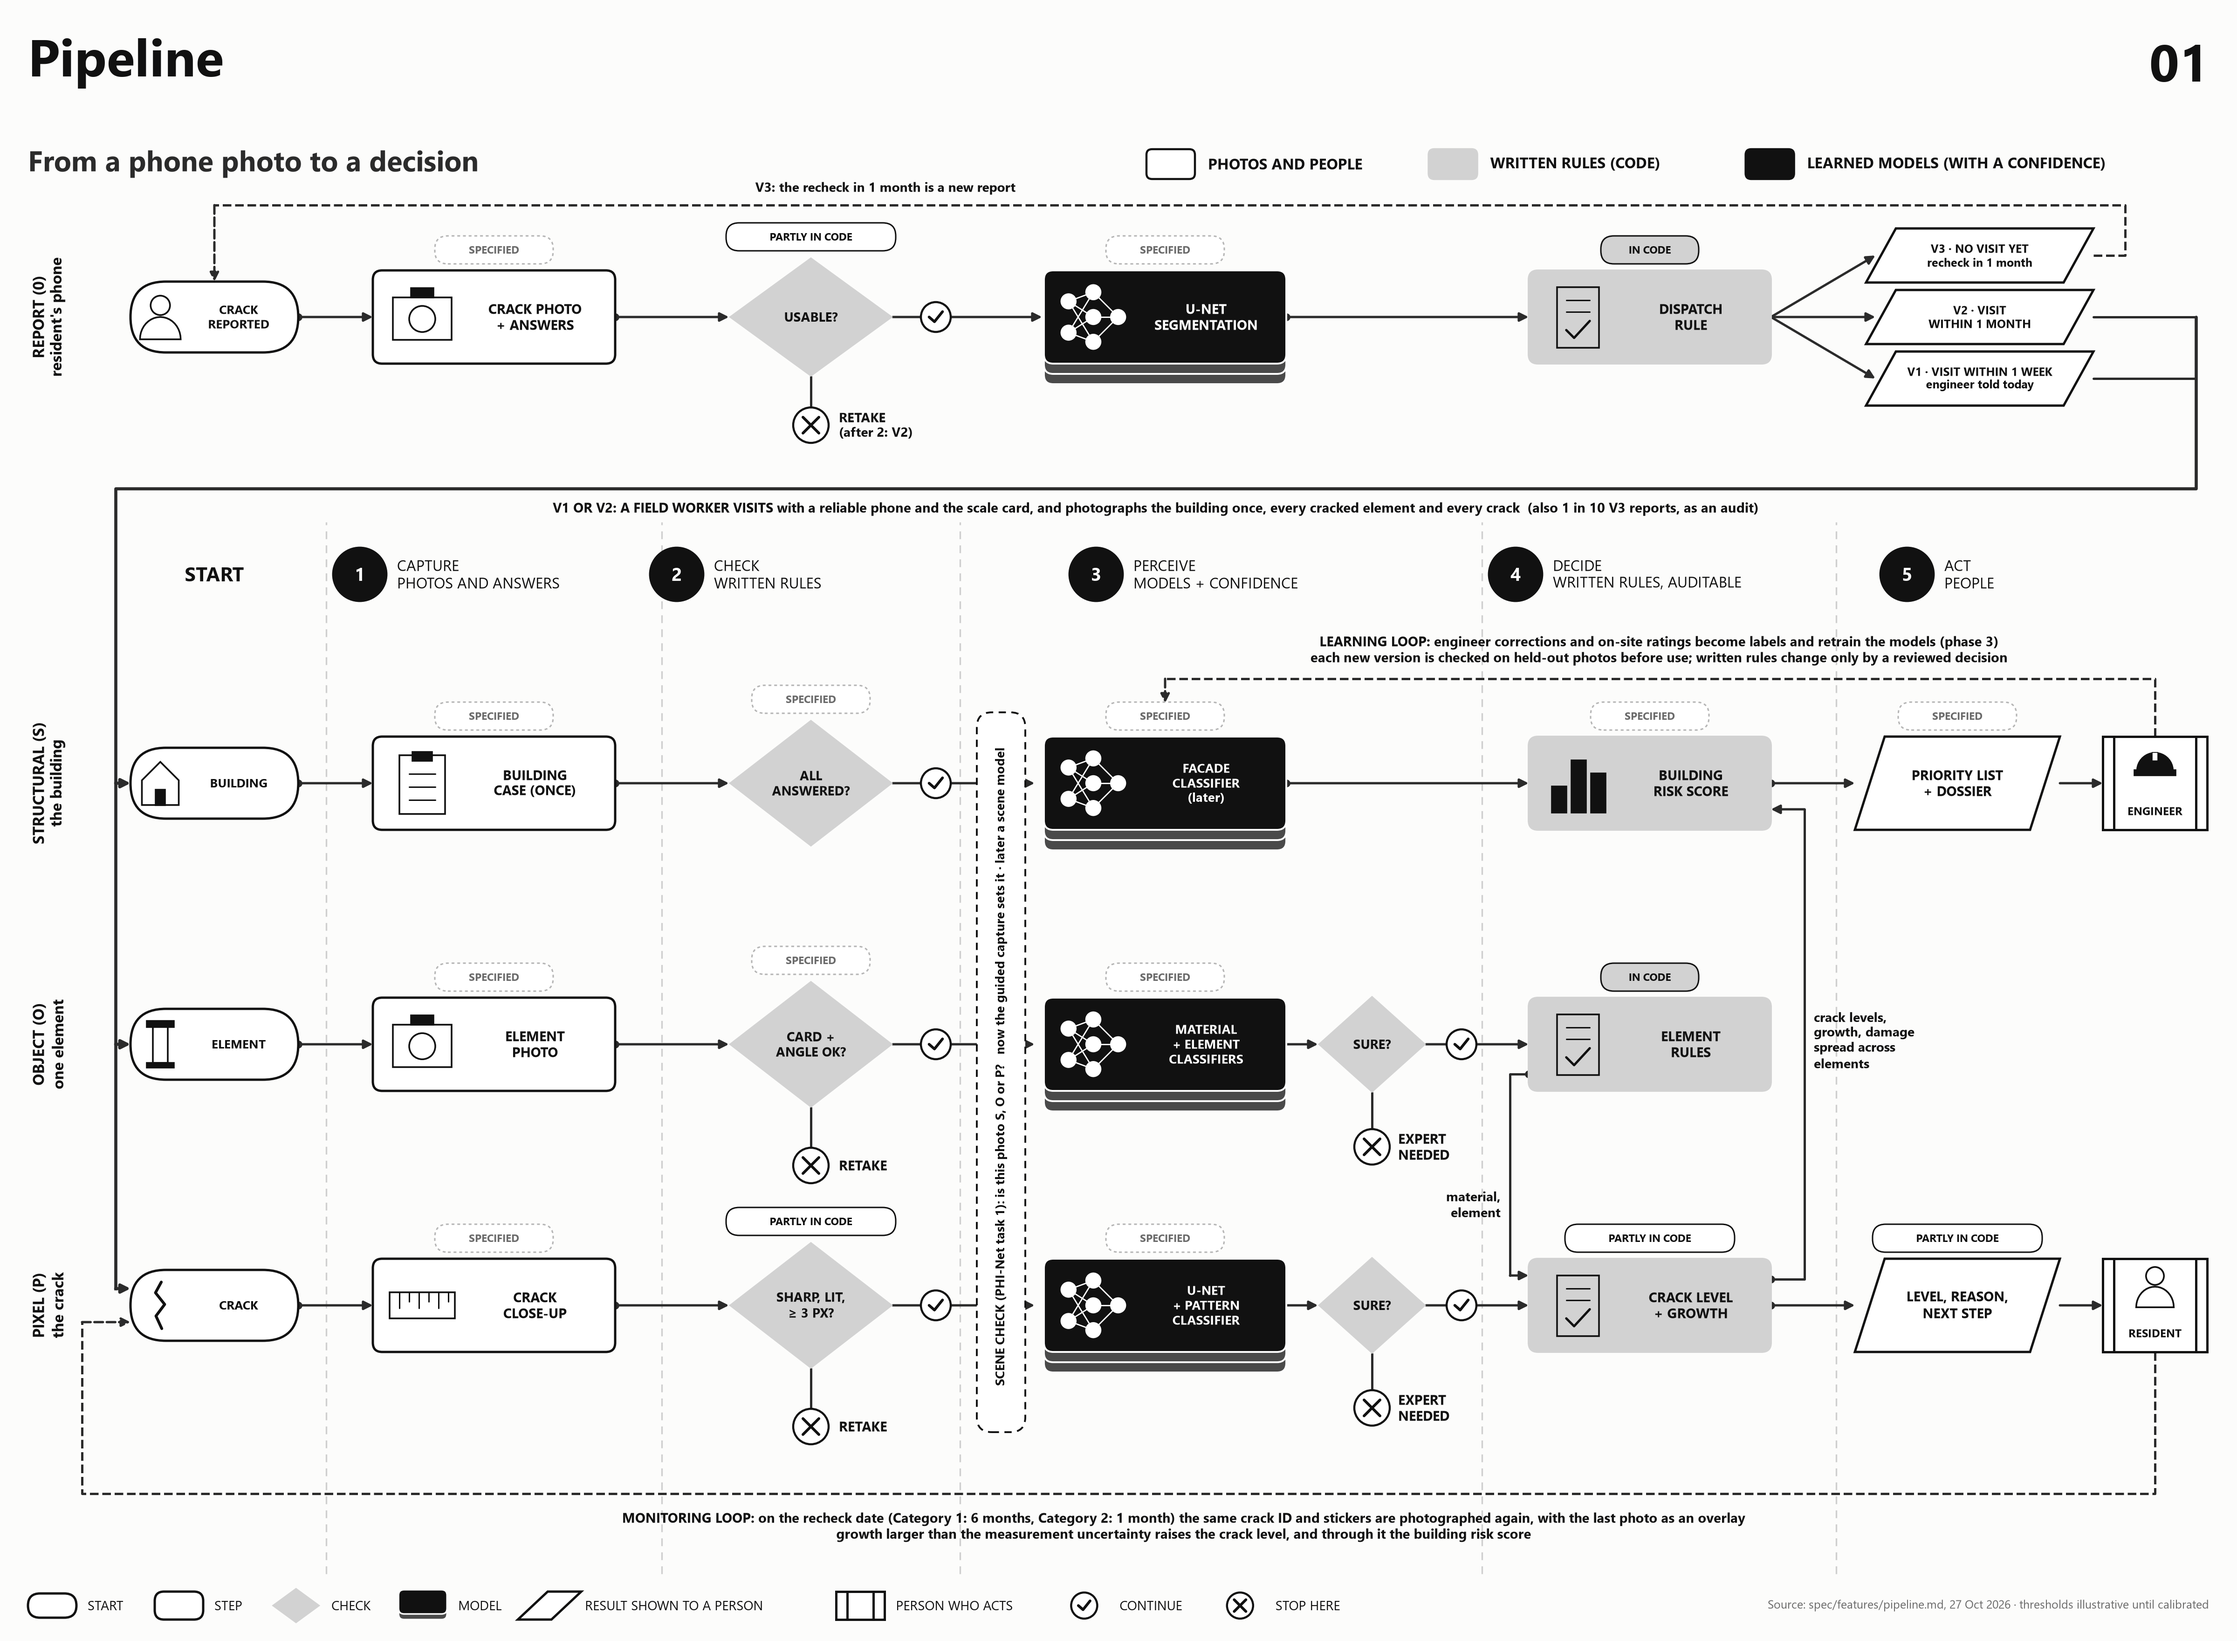
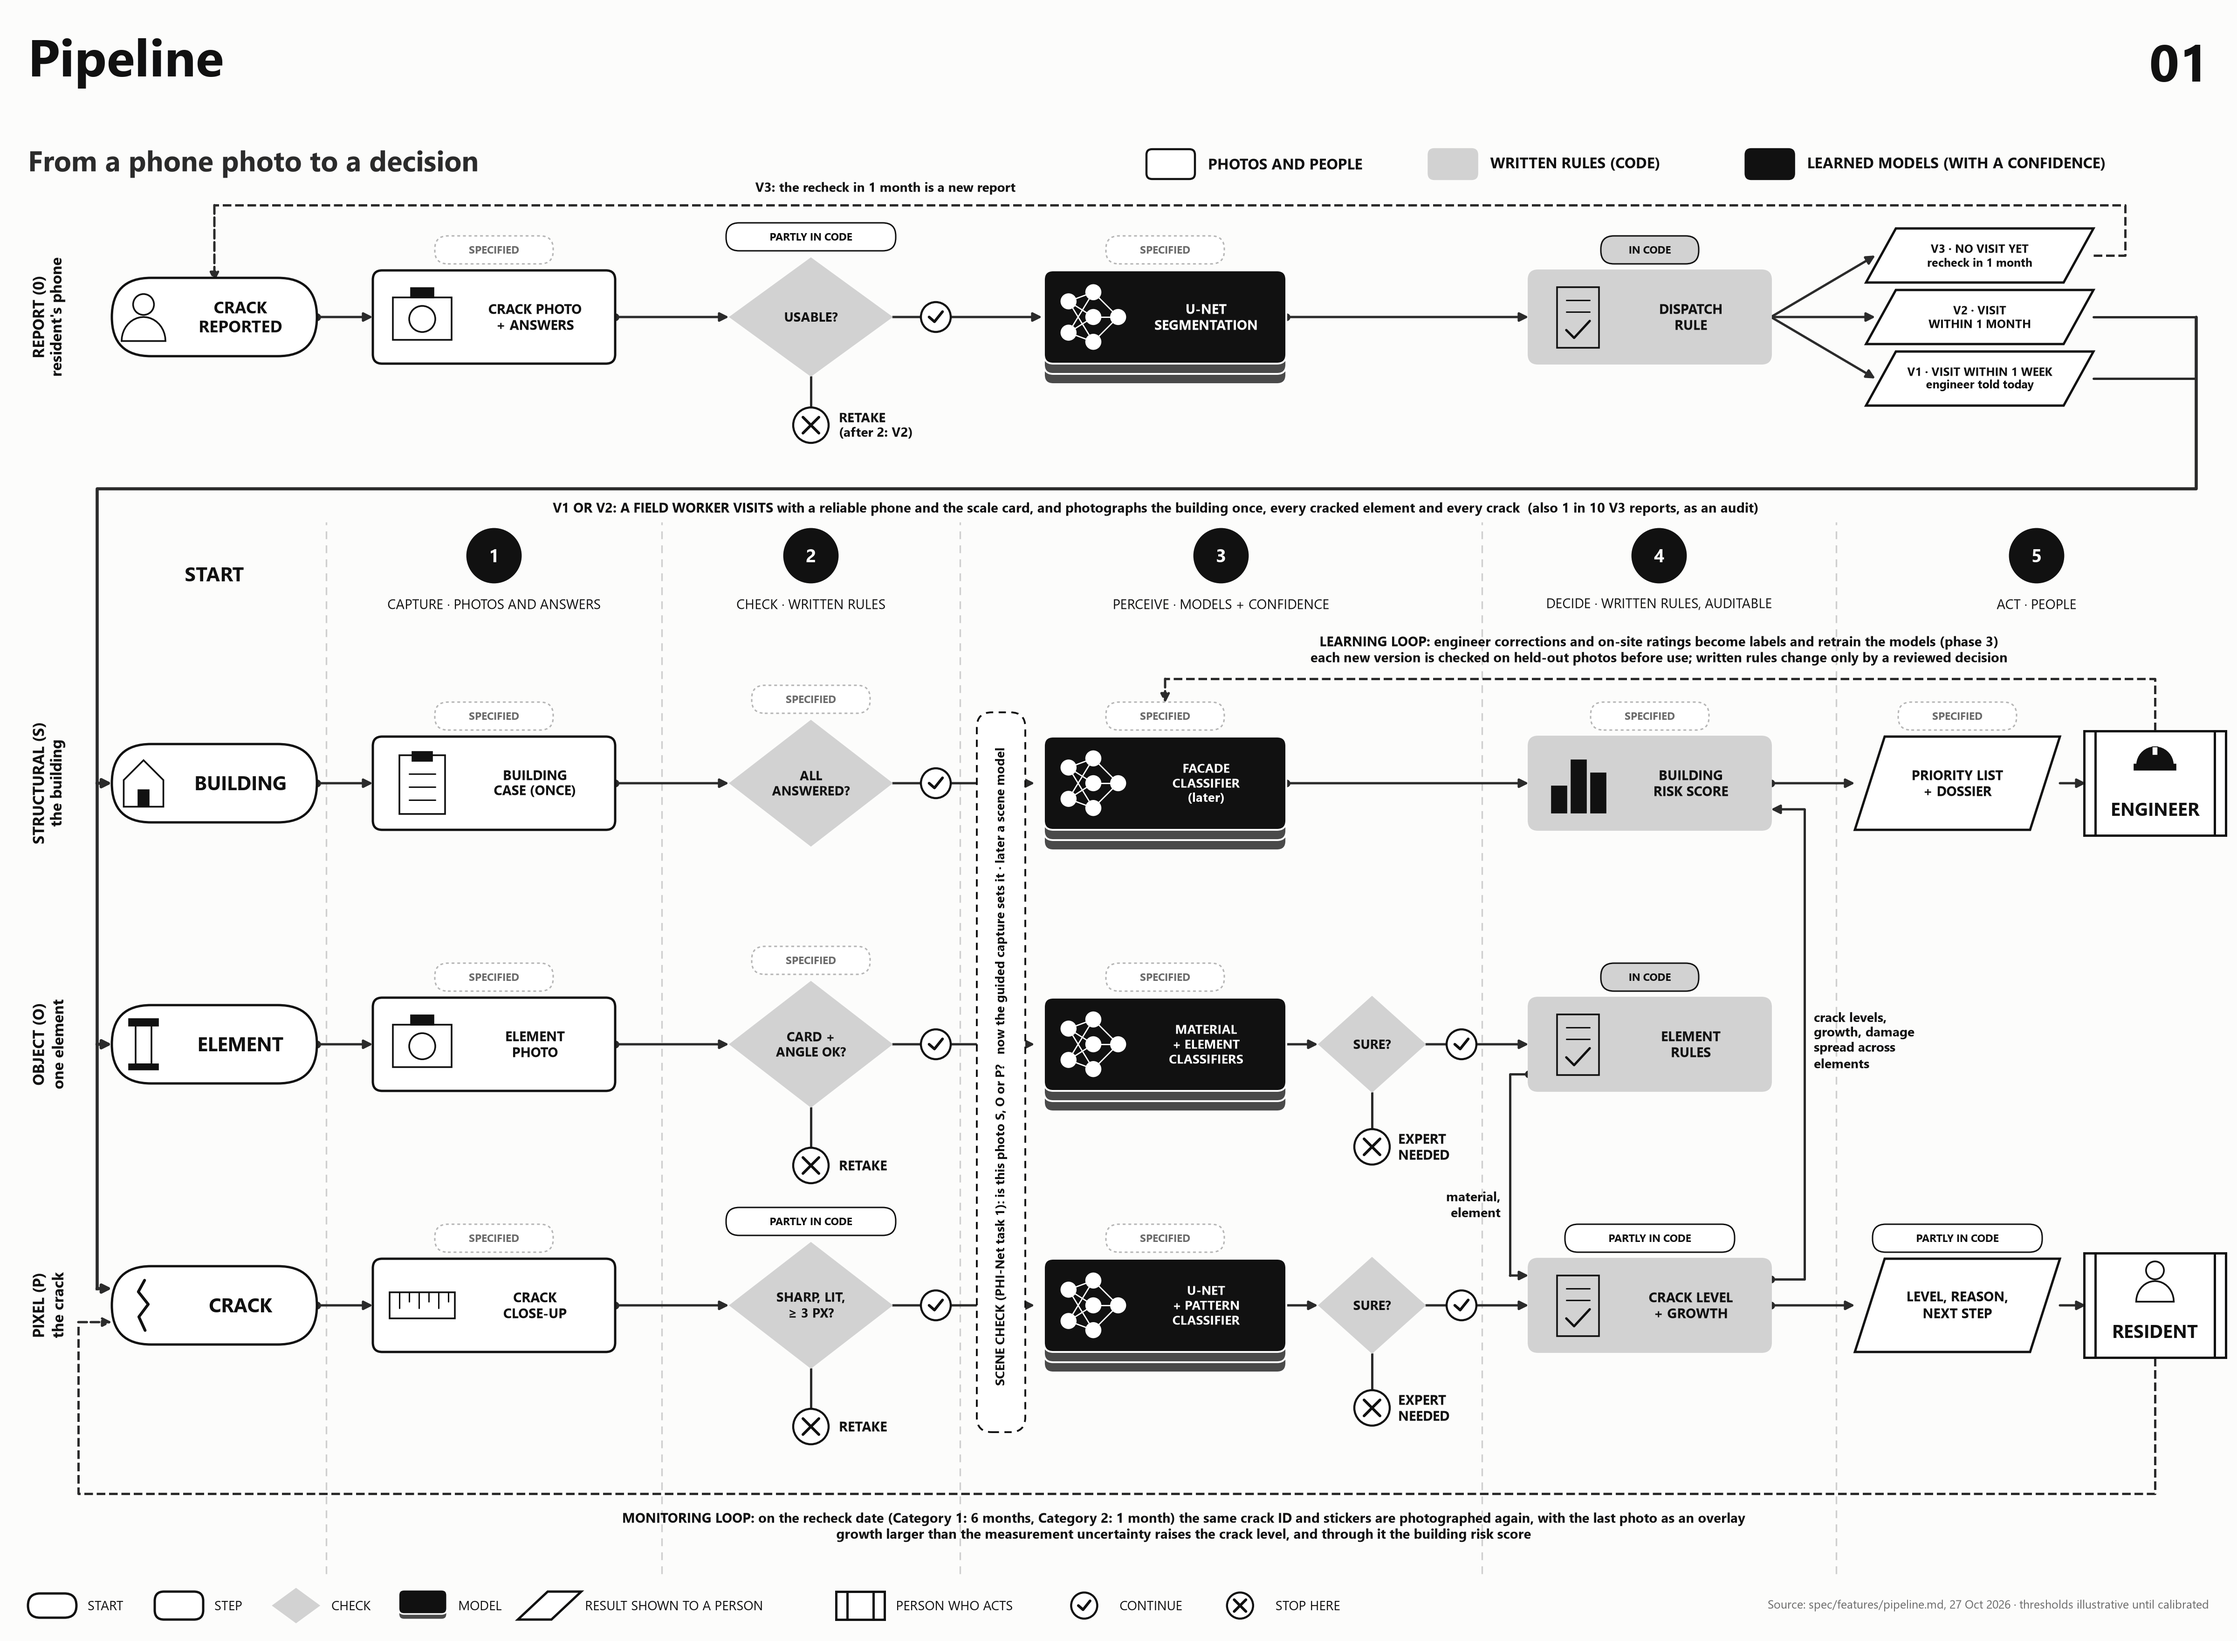
Pipeline flow: much bigger Building, Element, Crack, Engineer, Resident; phase numbers centred between the dotted lines

diff --git a/src/viz/figures.py b/src/viz/figures.py
@@ -1233,14 +1233,14 @@ def pipeline_flow():
         label(cx + (size + 0.9) / 2, cy, wrap(title), colour=ink, weight="bold", size=size_text)
 
     def ipill(cx, cy, title, icon):
-        pill(cx, cy, 9.0, 3.8, "")
-        _handoff_icon(ax, icon, cx - 2.9, cy, s=2.6)
-        label(cx + 1.3, cy, title, size=9.5, weight="bold")
+        pill(cx, cy, 11.0, 4.2, "")
+        _handoff_icon(ax, icon, cx - 3.8, cy, s=2.8)
+        label(cx + 1.4, cy, title, size=15 if "\n" not in title else 12.5, weight="bold")
 
     def iterminal(cx, cy, title, icon):
-        terminal(cx, cy, 5.6, 5, "")
-        _handoff_icon(ax, icon, cx, cy + 1.0, s=2.4)
-        label(cx, cy - 1.5, title, size=8.5, weight="bold")
+        terminal(cx, cy, 7.6, 5.6, "")
+        _handoff_icon(ax, icon, cx, cy + 1.3, s=2.4)
+        label(cx, cy - 1.4, title, size=14, weight="bold")
 
     # title, section heading, colour key, columns
     label(1.5, 84.6, "Pipeline", size=40, weight="bold", ha="left")
@@ -1255,11 +1255,13 @@ def pipeline_flow():
         kx += 4.6 + 0.62 * len(name)
     for x in FLOW_SEPARATORS:
         ax.plot([x, x], [3.6, 60], color="#cfcfcf", lw=1.2, ls=(0, (5, 4)), zorder=0)
+    edges = FLOW_SEPARATORS + [120.0]  # each numbered phase sits midway between its two dotted lines
     for cx, num, head in FLOW_COLUMNS:
         if num:
-            ax.add_patch(plt.Circle((cx - 7.2, 57.2), 1.45, color=FLOW_INK, zorder=4))
-            label(cx - 7.2, 57.2, num, size=14, colour="white", weight="bold")
-            label(cx - 5.2, 57.2, head, size=11.5, ha="left")
+            mid = (edges[int(num) - 1] + edges[int(num)]) / 2
+            ax.add_patch(plt.Circle((mid, 58.2), 1.45, color=FLOW_INK, zorder=4))
+            label(mid, 58.2, num, size=14, colour="white", weight="bold")
+            label(mid, 55.6, head.replace("\n", " · "), size=10.5)
         else:
             label(cx, 57.2, head, size=15, weight="bold")
 
@@ -1269,7 +1271,7 @@ def pipeline_flow():
     ipill(11.5, ry, "CRACK\nREPORTED", "person")
     with_icon(photo_box, 26.5, ry, 13, 5, "CRACK PHOTO\n+ ANSWERS", "camera")
     status(26.5, ry + 2.5, "spec")
-    line([(16.0, ry), (20.0, ry)])
+    line([(17.0, ry), (20.0, ry)])
     diamond(43.5, ry, 4.4, 3.2, "USABLE?")
     status(43.5, ry + 3.2, "partly")
     line([(33.0, ry), (39.1, ry)])
@@ -1294,12 +1296,12 @@ def pipeline_flow():
     # V1 and V2: the field worker's first visit starts the three scales below
     for oy in (71.0, 67.7):
         line([(112.3, oy), (117.8, oy)], head=False, dot=False)
-    line([(117.8, 71.0), (117.8, 61.8), (6.2, 61.8), (6.2, 46.0), (7.0, 46.0)], lw=2.4, dot=False)
+    line([(117.8, 71.0), (117.8, 61.8), (5.2, 61.8), (5.2, 46.0), (6.0, 46.0)], lw=2.4, dot=False)
     # the same visit also photographs every cracked element and every crack
     lane_y = {code: y for y, code, *_ in FLOW_LANES}
-    ax.plot([6.2, 6.2], [46.0, lane_y["P"] + 0.9], color=FLOW_TEXT, lw=2.4, zorder=2)
-    line([(6.2, lane_y["O"]), (7.0, lane_y["O"])], lw=2.4, dot=False)
-    line([(6.2, lane_y["P"] + 0.9), (7.0, lane_y["P"] + 0.9)], lw=2.4, dot=False)
+    ax.plot([5.2, 5.2], [46.0, lane_y["P"] + 0.9], color=FLOW_TEXT, lw=2.4, zorder=2)
+    line([(5.2, lane_y["O"]), (6.0, lane_y["O"])], lw=2.4, dot=False)
+    line([(5.2, lane_y["P"] + 0.9), (6.0, lane_y["P"] + 0.9)], lw=2.4, dot=False)
     label(62.0, 60.7, "V1 OR V2: A FIELD WORKER VISITS with a reliable phone and the scale card, and photographs "
           "the building once, every cracked element and every crack  (also 1 in 10 V3 reports, as an audit)",
           size=10.5, weight="bold")
@@ -1309,7 +1311,7 @@ def pipeline_flow():
         cap = PIPE_BOXES[(r, 0)]
         with_icon(photo_box, 26.5, y, 13, 5, cap[1].upper(), {"S": "clipboard", "O": "camera", "P": "ruler"}[code])
         status(26.5, y + 2.5, cap[3])
-        line([(16.0, y), (20.0, y)])
+        line([(17.0, y), (20.0, y)])
         # check diamond and its failure branch
         question, fail = FLOW_CHECKS[code]
         diamond(43.5, y, 4.4, 3.4, question)
@@ -1346,7 +1348,7 @@ def pipeline_flow():
             status(105.0, y + 2.5, act[3])
             iterminal(115.6, y, act[1].upper(), "hardhat" if code == "S" else "person")
             line([(95.0, y), (99.5, y)])
-            line([(110.5, y), (112.8, y)], dot=False)
+            line([(110.5, y), (111.9, y)], dot=False)
 
     yS, yO, yP = (lane[0] for lane in FLOW_LANES)
     # scene check band between Check and Perceive, all scales
@@ -1361,13 +1363,13 @@ def pipeline_flow():
     label(97.3, yO + 0.2, "crack levels,\ngrowth, damage\nspread across\nelements", size=10, weight="bold", ha="left")
     # learning loop: engineer -> the learned models of phase 3
     ly = 51.6
-    line([(115.6, yS + 2.5), (115.6, ly), (62.5, ly), (62.5, yS + 4.3)], ls="--", dot=False)
+    line([(115.6, yS + 2.8), (115.6, ly), (62.5, ly), (62.5, yS + 4.3)], ls="--", dot=False)
     label(89.0, ly + 1.5, "LEARNING LOOP: engineer corrections and on-site ratings become labels and retrain the "
           "models (phase 3)\neach new version is checked on held-out photos before use; written rules change only by "
           "a reviewed decision", size=10.5, weight="bold")
     # monitoring loop: the resident's recheck date brings the same crack back
     my = 7.9
-    line([(115.6, yP - 2.5), (115.6, my), (4.4, my), (4.4, yP - 0.9), (7.0, yP - 0.9)], ls="--", dot=False)
+    line([(115.6, yP - 2.8), (115.6, my), (4.2, my), (4.2, yP - 0.9), (6.0, yP - 0.9)], ls="--", dot=False)
     label(63.5, my - 1.8, "MONITORING LOOP: on the recheck date (Category 1: 6 months, Category 2: 1 month) the same crack ID "
           "and stickers are photographed again, with the last photo as an overlay\ngrowth larger than the measurement "
           "uncertainty raises the crack level, and through it the building risk score", size=10.5, weight="bold")
